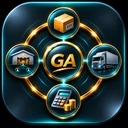
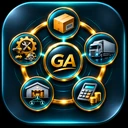
Atualiza o ícone do aplicativo com o módulo de Máquinas e ferramentas

diff --git a/src/Painel.html b/src/Painel.html
@@ -4,7 +4,7 @@
 <meta charset="utf-8">
 <meta name="viewport" content="width=device-width, initial-scale=1, viewport-fit=cover">
 <title>GVG&amp;ARTEFAL</title>
[1 lines of base64/hex data omitted]
+<link rel="icon" type="image/png" sizes="64x64" href="https://gvgartefalesquadrias.com.br/favicon-maquinas-64.png">
 <style>
   :root{
     --gvgp-ink:#082f3c;
@@ -1106,7 +1106,7 @@
     </nav>
     <div class="gvgp-sidebar-bottom">
       <button type="button" class="gvgp-install-btn" id="gvgpInstallBtn" title="Instalar o GVG&ARTEFAL na tela inicial">
[1 lines of base64/hex data omitted]
+        <img src="https://gvgartefalesquadrias.com.br/assets/icone-instalar-app-maquinas.webp" alt="">
         <span><strong>Instalar app</strong><small>Atalho na tela inicial</small></span>
       </button>
       <div class="gvgp-sidebar-footer">

diff --git a/docs/index.html b/docs/index.html
@@ -10,9 +10,9 @@
 <meta property="og:type" content="website">
 <meta property="og:url" content="https://gvgartefalesquadrias.com.br/">
 <meta name="robots" content="noindex">
-<link rel="icon" type="image/png" sizes="32x32" href="favicon-32.png">
-<link rel="icon" type="image/png" sizes="48x48" href="favicon-48.png">
-<link rel="apple-touch-icon" href="favicon-180.png">
+<link rel="icon" type="image/png" sizes="32x32" href="favicon-maquinas-32.png">
+<link rel="icon" type="image/png" sizes="48x48" href="favicon-maquinas-48.png">
+<link rel="apple-touch-icon" href="favicon-maquinas-180.png">
 <link rel="manifest" href="manifest.webmanifest">
 <link rel="preconnect" href="https://script.google.com">
 <link rel="preconnect" href="https://www.gstatic.com" crossorigin>
@@ -48,12 +48,12 @@
 </head>
 <body>
   <iframe id="gvgAppFrame" src="about:blank" allow="storage-access; clipboard-write" loading="eager" title="Painel GVG&ARTEFAL"></iframe>
-  <div id="gvgBoot" role="status" aria-live="polite"><div class="gvg-boot-card"><img src="icon-192.png" alt=""><strong>Carregando o painel…</strong><div class="gvg-boot-spinner" aria-hidden="true"></div><span id="gvgBootMsg">Conectando ao ambiente seguro.</span><button type="button" id="gvgBootRetry" hidden>Tentar novamente</button></div></div>
+  <div id="gvgBoot" role="status" aria-live="polite"><div class="gvg-boot-card"><img src="icon-maquinas-192.png" alt=""><strong>Carregando o painel…</strong><div class="gvg-boot-spinner" aria-hidden="true"></div><span id="gvgBootMsg">Conectando ao ambiente seguro.</span><button type="button" id="gvgBootRetry" hidden>Tentar novamente</button></div></div>
 <script>
   (function(){
     var frame=document.getElementById('gvgAppFrame');
     var params=new URLSearchParams(window.location.search);
-    var qs='v=192&ui=conferencia-link-login-maquinas-20261117';
+    var qs='v=192&ui=conferencia-link-login-maquinas-icone-20261117';
     var modulo=params.get('modulo');
     if(params.get('conferir')||params.get('k'))modulo='pedidos';
     if(modulo)qs+='&modulo='+encodeURIComponent(modulo);
@@ -77,7 +77,7 @@
     if(document.getElementById('gvgInstallHelp'))return;
     var wrap=document.createElement('div');
     wrap.id='gvgInstallHelp';wrap.className='gvgInstallHelp';
-    wrap.innerHTML='<div class="box"><img src="icon-192.png" alt=""><h2>Instalar o GVG&ARTEFAL</h2><p><b>Android / Chrome:</b> abra o menu ⋮ e toque em <b>Instalar app</b>.</p><p><b>iPhone / Safari:</b> toque em <b>Compartilhar</b> e depois em <b>Adicionar à Tela de Início</b>.</p><button type="button" id="gvgInstallClose">Entendi</button></div>';
+    wrap.innerHTML='<div class="box"><img src="icon-maquinas-192.png" alt=""><h2>Instalar o GVG&ARTEFAL</h2><p><b>Android / Chrome:</b> abra o menu ⋮ e toque em <b>Instalar app</b>.</p><p><b>iPhone / Safari:</b> toque em <b>Compartilhar</b> e depois em <b>Adicionar à Tela de Início</b>.</p><button type="button" id="gvgInstallClose">Entendi</button></div>';
     document.body.appendChild(wrap);
     document.getElementById('gvgInstallClose').onclick=function(){wrap.remove();};
   }

diff --git a/docs/sw.js b/docs/sw.js
@@ -1,14 +1,14 @@
 /* GVG&ARTEFAL — shell PWA. Nunca armazena dados operacionais do Apps Script. */
-const CACHE = 'gvg-shell-v25';
+const CACHE = 'gvg-shell-v26';
 const SHELL = [
   './',
   './index.html',
   './manifest.webmanifest',
-  './favicon-32.png',
-  './favicon-48.png',
-  './favicon-180.png',
-  './icon-192.png',
-  './icon-512.png'
+  './favicon-maquinas-32.png',
+  './favicon-maquinas-48.png',
+  './favicon-maquinas-180.png',
+  './icon-maquinas-192.png',
+  './icon-maquinas-512.png'
 ];
 
 self.addEventListener('install', function(event){
